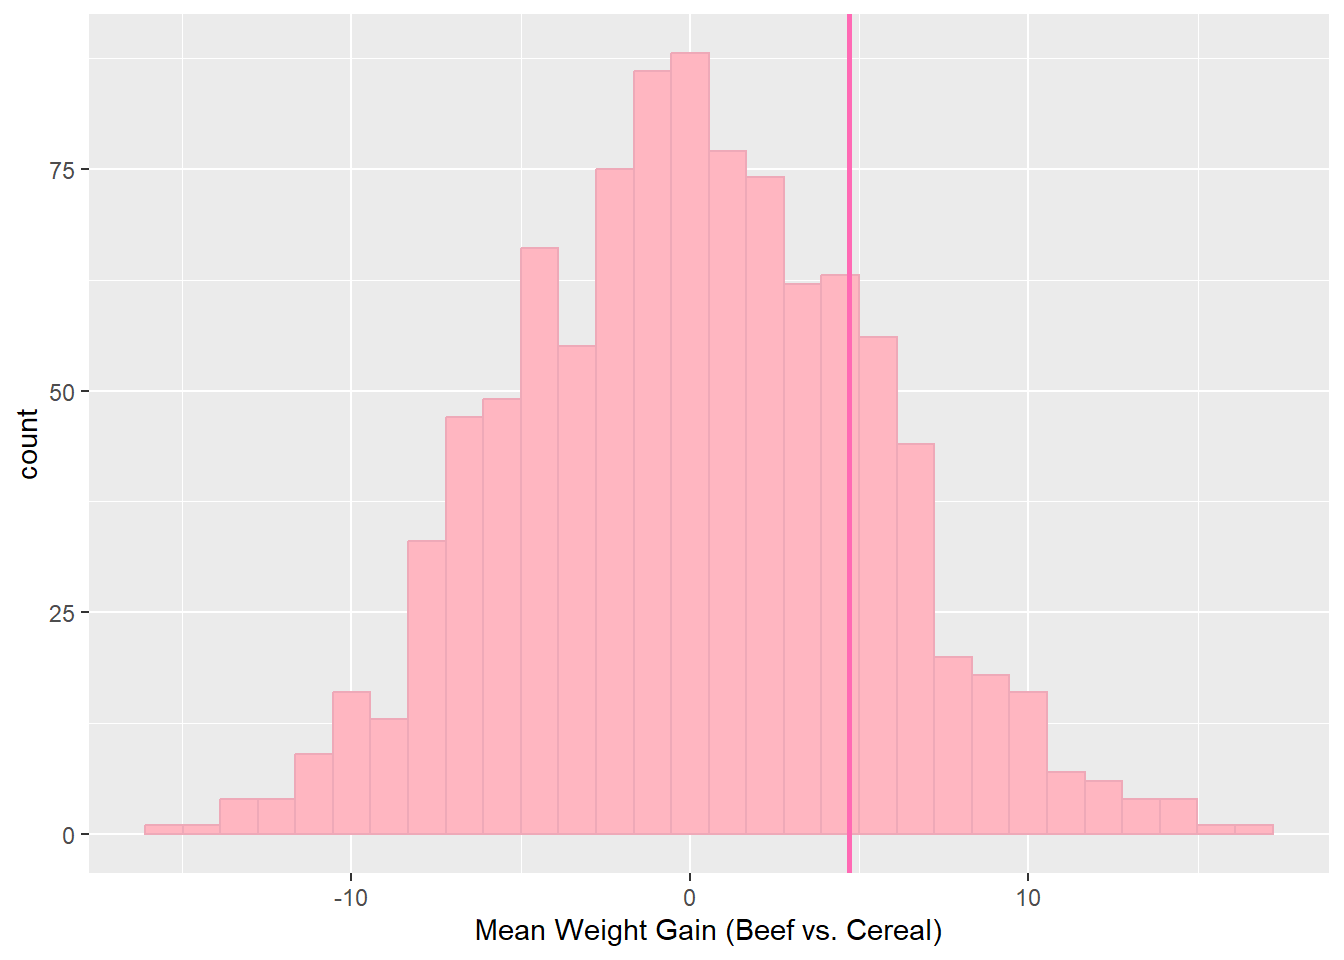
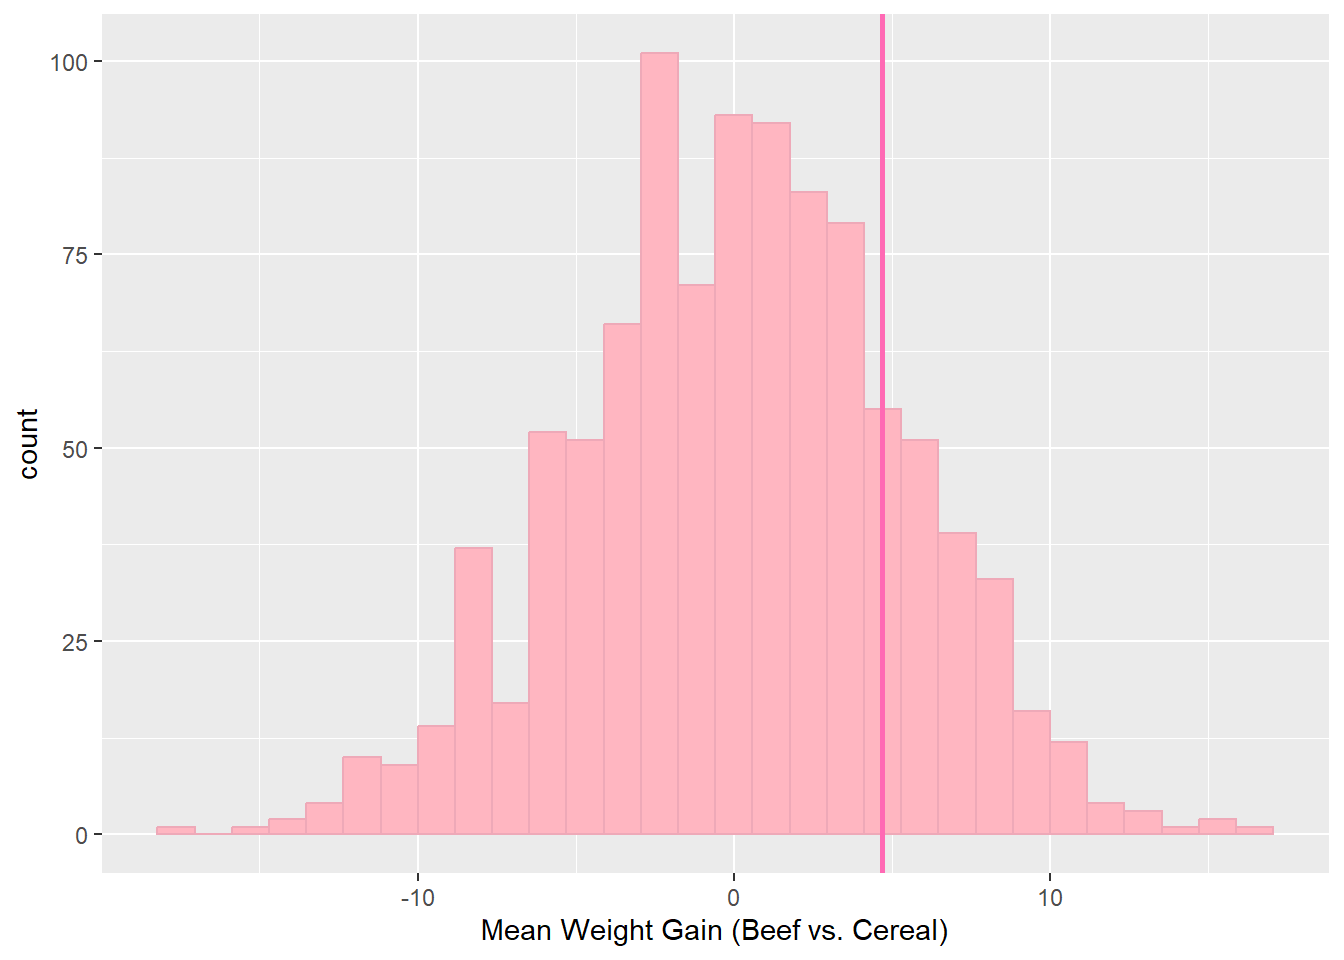
RAT!

diff --git a/docs/mini_project2.html b/docs/mini_project2.html
@@ -150,7 +150,7 @@ ul.task-list li input[type="checkbox"] {
 
 <section id="fat-rats" class="level3">
 <h3 class="anchored" data-anchor-id="fat-rats">Fat Rats!</h3>
-<p>For this project, I examined the dataset FatRats, which has data from an experiment on the effects of diet on the weight gain of rats. The study had 60 baby rat participants. They split them up into groups, where they were fed different sources of protein(Beef, Cereal, and Pork). The results show the weight gain for each rat from their protein source.</p>
+<p>For this project, I examined the dataset FatRats, which has data from an experiment on the effects of diet on the weight gain of rats. The study had 60 baby rat participants, which were split up into groups and fed different sources of protein(Beef, Cereal, and Pork). The resulting dataset shows the weight gain for each rat from their protein source.</p>
 <p>I decided to conduct a randomization-type test by simulating the behavior under the null hypothesis. I wanted to see if the results of the study would be significant. I did this by running simulations of the study and randomizing the protein source to see if a random test would produce significantly different responses than the experiment did.</p>
 <p>The following graphs show the difference in average weight gains between different proteins with the randomized test, which shows what might happen if protein had no effect. The hot pink vertical line shows the average weight gain from the study that was run. The p-values below each chart show the probability under the null hypothesis(our randomized experiment) of obtaining a test statistic at least as extreme as the one obtained. The p-values are calculated by looking at how many of the randomized statistics are greater than or equal to the observed statistics from the rat study.</p>
 <div class="cell">
@@ -158,19 +158,19 @@ ul.task-list li input[type="checkbox"] {
 <p><img src="mini_project2_files/figure-html/unnamed-chunk-3-1.png" class="img-fluid" width="672"></p>
 </div>
 <div class="cell-output cell-output-stdout">
-<pre><code>Beef vs. Pork p-value: 0.292 </code></pre>
+<pre><code>Beef vs. Pork p-value: 0.311 </code></pre>
 </div>
 <div class="cell-output-display">
 <p><img src="mini_project2_files/figure-html/unnamed-chunk-3-2.png" class="img-fluid" width="672"></p>
 </div>
 <div class="cell-output cell-output-stdout">
-<pre><code>Beef vs. Cereal p-value: 0.293 </code></pre>
+<pre><code>Beef vs. Cereal p-value: 0.294 </code></pre>
 </div>
 <div class="cell-output-display">
 <p><img src="mini_project2_files/figure-html/unnamed-chunk-3-3.png" class="img-fluid" width="672"></p>
 </div>
 <div class="cell-output cell-output-stdout">
-<pre><code>Pork vs. Cereal p-value: 0.281 </code></pre>
+<pre><code>Pork vs. Cereal p-value: 0.297 </code></pre>
 </div>
 </div>
 <p>As we can see, all of the p-values are close to 0.3. Generally, if the p-value is less than 0.05, we will consider the results of the study statistically significant. Because these results are well over the point of statistical significance, we can fail to reject the null hypothesis and claim that the difference in weight gains due to different protiens is not statistically significant.</p>
